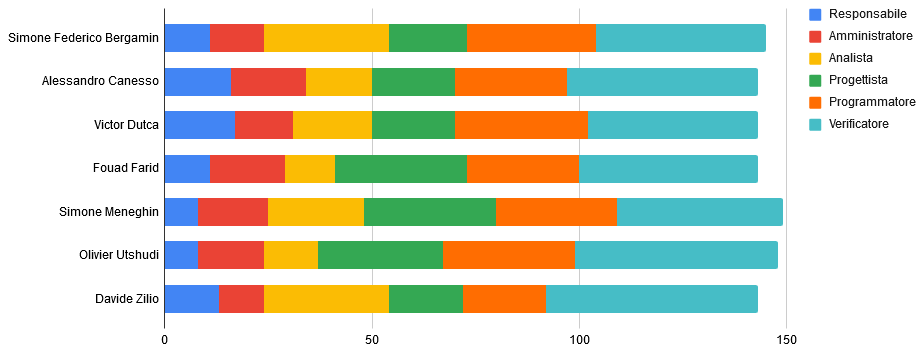
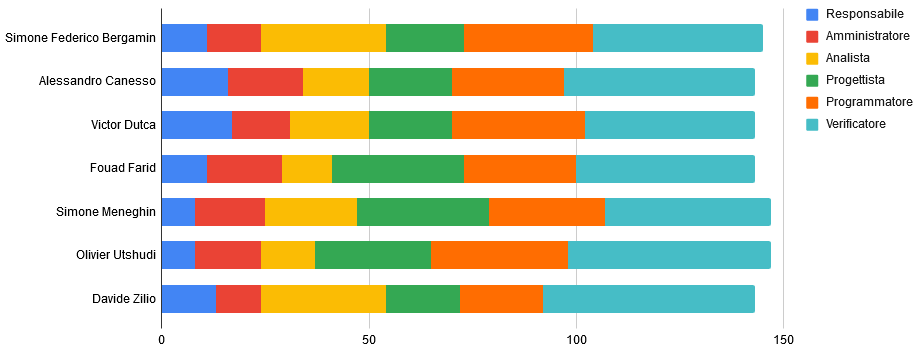
pdp sistemato max 105 ore

diff --git a/Piano_di_progetto/sezioni/preventivo.tex b/Piano_di_progetto/sezioni/preventivo.tex
@@ -92,11 +92,11 @@ Simone Federico Bergamin & - & - & 10 & 7 & 5 & 8 & 30 \\
 Alessandro Canesso & - & 5 & - & 10 & 9 & 8 & 32 \\
 Victor Dutca & 3 & 6 & 4 & 10 & 7 & - & 30 \\
 Fouad Farid & - & 5 & - & 14 & - & 11 & 30 \\
-Simone Meneghin & 6 & - & 9 & 10 & 7 & - & 32 \\
-Olivier Utshudi & - & 4 & - & 10 & 6 & 12 & 32 \\
+Simone Meneghin & 6 & - & 8 & 10 & 6 & - & 30 \\
+Olivier Utshudi & - & 4 & - & 8 & 7 & 12 & 31 \\
 Davide Zilio & 3 & - & 13 & - & - & 14 & 30 \\
 \rowcolor{lastrowcolor}
-\textbf{Ore totali ruolo} & \textbf{12} & \textbf{20} & \textbf{36} & \textbf{61} & \textbf{34} & \textbf{53} & \textbf{216} \\
+\textbf{Ore totali ruolo} & \textbf{12} & \textbf{20} & \textbf{35} & \textbf{59} & \textbf{34} & \textbf{53} & \textbf{213} \\
 \end{tabular}
 \end{table}
  
@@ -121,12 +121,12 @@ In questa fase il costo per ogni ruolo è il seguente:
 \textcolor{white}{\textbf{Costo}}  \\
 Responsabile & 12 & 360€ \\
 Amministratore & 20 & 400€ \\
-Analista & 36 & 900€ \\
-Progettista & 61 & 1342€ \\
+Analista & 35 & 875€ \\
+Progettista & 59 & 1298€ \\
 Programmatore & 34 & 510€  \\
 Verificatore & 53 & 795€  \\
 \rowcolor{lastrowcolor}
-\textbf{Totale} & \textbf{216} & \textbf{4307€}  \\
+\textbf{Totale} & \textbf{213} & \textbf{4238€}  \\
 \end{tabular}
 \end{table}
  
@@ -289,11 +289,11 @@ Simone Federico Bergamin 	& 11 	& 13 	& 30 	& 19 	& 31 	& 41 	& 145 \\
 Alessandro Canesso 			& 16 	& 18 	& 16 	& 20 	& 27 	& 46 	& 143 \\
 Victor Dutca 				& 17	& 14 	& 19 	& 20 	& 32 	& 41 	& 143 \\
 Fouad Farid					& 11	& 18 	& 12 	& 32 	& 27 	& 43 	& 143 \\
-Simone Meneghin 			& 8 	& 17 	& 23 	& 32 	& 29 	& 40 	& 149 \\
-Olivier Utshudi 			& 8 	& 16 	& 13 	& 30 	& 32 	& 49 	& 148 \\
+Simone Meneghin 			& 8 	& 17 	& 22 	& 32 	& 28 	& 40 	& 147 \\
+Olivier Utshudi 			& 8 	& 16 	& 13 	& 28 	& 33 	& 49 	& 147 \\
 Davide Zilio 				& 13 	& 11 	& 30 	& 18 	& 20 	& 51 	& 143 \\
 \rowcolor{lastrowcolor}
-\textbf{Ore totali ruolo} & \textbf{84} & \textbf{107} & \textbf{143} & \textbf{171} & \textbf{198} & \textbf{311} & \textbf{1014} \\
+\textbf{Ore totali ruolo} & \textbf{84} & \textbf{107} & \textbf{142} & \textbf{169} & \textbf{198} & \textbf{311} & \textbf{1011} \\
 \end{tabular}
 \end{table}
 
@@ -318,12 +318,12 @@ Il costo totale con investimento è riportato nella seguente tabella:
 \textcolor{white}{\textbf{Costo}}  \\
 Responsabile & 84 & 2520€ \\
 Amministratore & 107 & 2140€ \\
-Analista & 143 & 3575€ \\
-Progettista	& 171 & 3762€ \\
+Analista & 142 & 3550€ \\
+Progettista	& 169 & 3718€ \\
 Programmatore & 198 & 2970€  \\
 Verificatore & 311 & 4665€  \\
 \rowcolor{lastrowcolor}
-\textbf{Totale} & \textbf{1014} & \textbf{19632€}  \\
+\textbf{Totale} & \textbf{1014} & \textbf{19563€}  \\
 \end{tabular}
 \end{table}
 
@@ -353,11 +353,11 @@ Simone Federico Bergamin 	& 5 	& 6 	& 10	& 19	& 31	& 32 	& 103 \\
 Alessandro Canesso 			& 8 	& 12	& - 	& 20	& 27	& 34 	& 101 \\
 Victor Dutca 				& 8 	& 14	& 4 	& 20	& 32	& 25 	& 103 \\
 Fouad Farid					& 4 	& 11	& - 	& 26	& 27	& 35 	& 103 \\
-Simone Meneghin 			& 8 	& 9 	& 9 	& 22	& 29	& 30 	& 107 \\
-Olivier Utshudi 			& 8 	& 8 	& - 	& 22	& 32	& 36 	& 106 \\
+Simone Meneghin 			& 8 	& 9 	& 8 	& 22	& 28	& 30 	& 105 \\
+Olivier Utshudi 			& 8 	& 8 	& - 	& 20	& 33	& 36 	& 105 \\
 Davide Zilio 				& 9 	& 6 	& 13	& 18	& 20	& 37 	& 103 \\
 \rowcolor{lastrowcolor}
-\textbf{Ore totali ruolo} & \textbf{50} & \textbf{66} & \textbf{36} & \textbf{147} & \textbf{198} & \textbf{229} & \textbf{726} \\
+\textbf{Ore totali ruolo} & \textbf{50} & \textbf{66} & \textbf{35} & \textbf{145} & \textbf{198} & \textbf{229} & \textbf{723} \\
 \end{tabular}
 \end{table}
 
@@ -382,12 +382,12 @@ Il costo totale senza investimento è riportato nella seguente tabella:
 \textcolor{white}{\textbf{Costo}}  \\
 Responsabile & 50 & 1500€ \\
 Amministratore & 66 & 1320€ \\
-Analista & 36 & 900€ \\
-Progettista	& 147 & 3234€ \\
+Analista & 35 & 875€ \\
+Progettista	& 145 & 3190€ \\
 Programmatore & 198 & 2970€  \\
 Verificatore & 229 & 3435€  \\
 \rowcolor{lastrowcolor}
-\textbf{Totale} & \textbf{729} & \textbf{13359€}  \\
+\textbf{Totale} & \textbf{729} & \textbf{13290€}  \\
 \end{tabular}
 \end{table}
 
@@ -399,4 +399,4 @@ I dati ottenuti si possono riassumere nel seguente areogramma:
 \end{figure}
 
 \subsection{Conclusioni}
-Il costo totale preventivato per il progetto è 13.359,00€
+Il costo totale preventivato per il progetto è 13.290,00€
